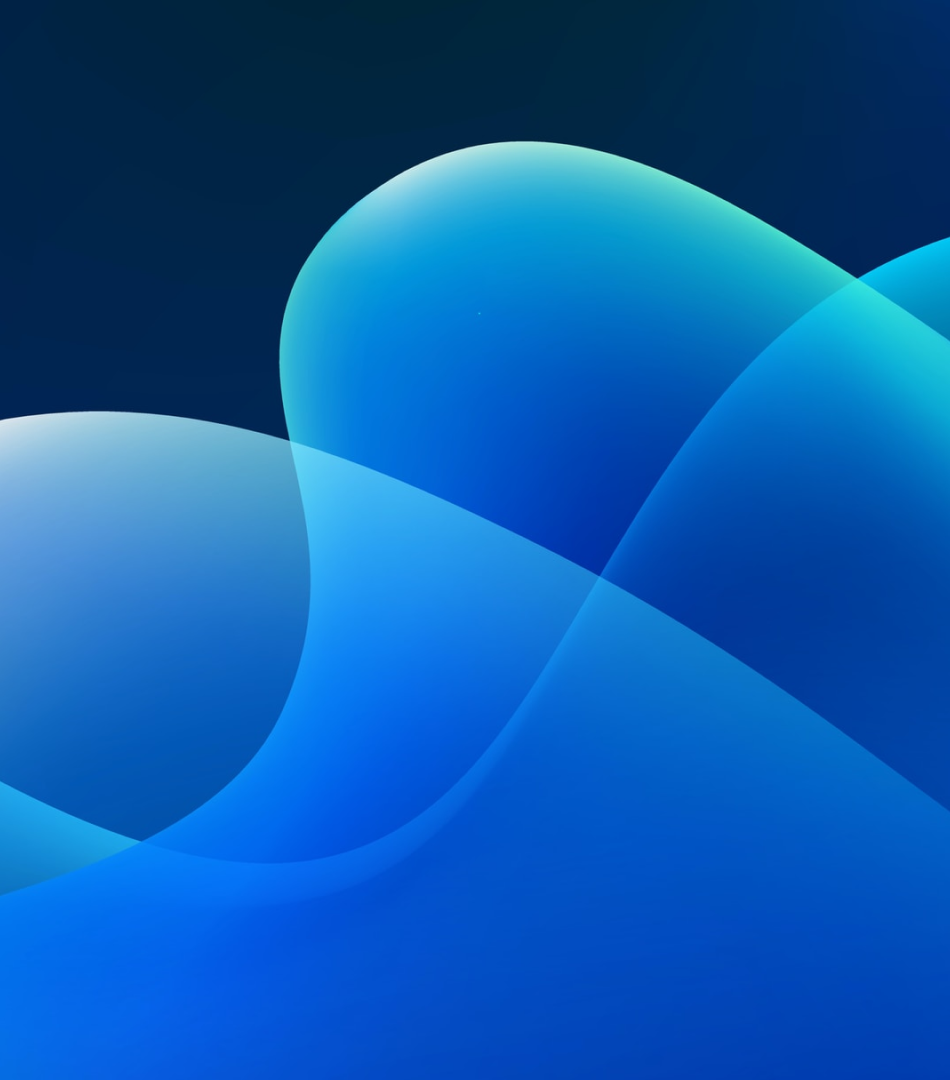
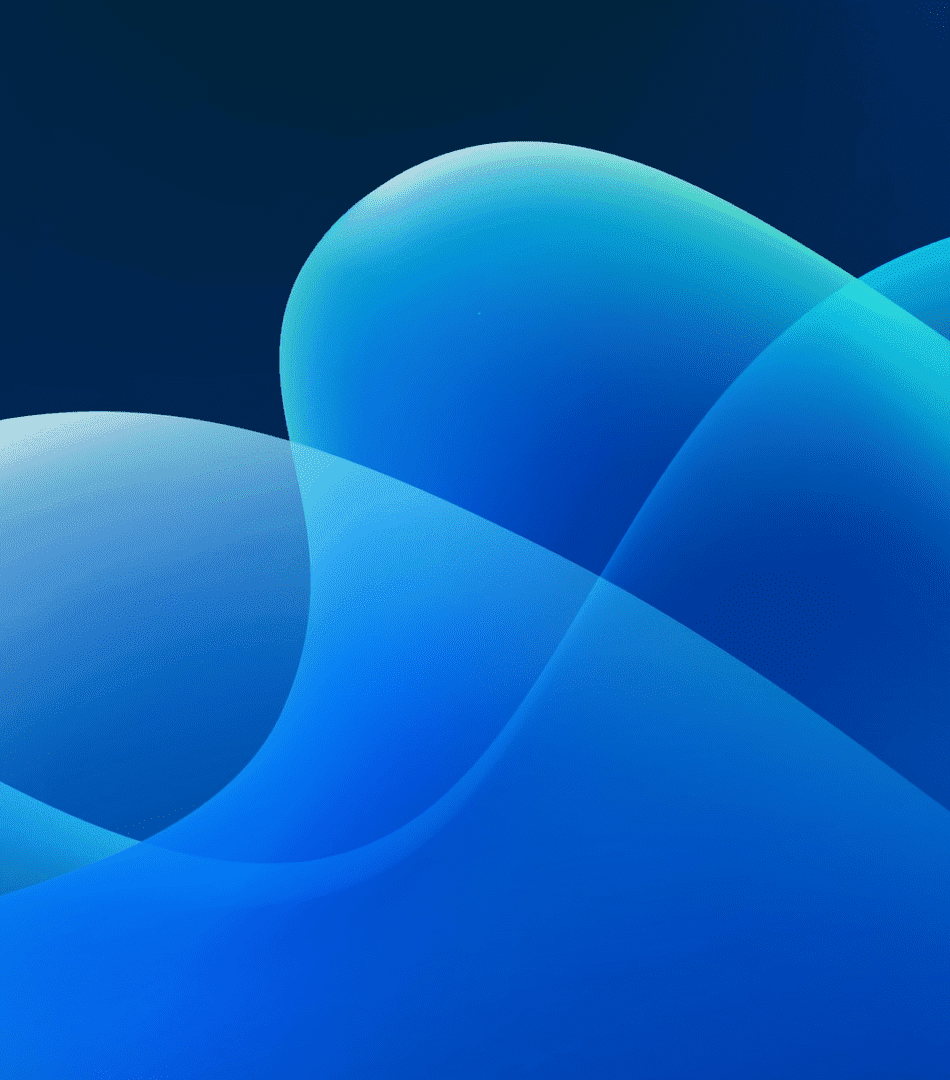
added changes to changelog, optimized images

diff --git a/DTCD-AuthPanel/src/components/AuthPanel.vue b/DTCD-AuthPanel/src/components/AuthPanel.vue
@@ -153,7 +153,7 @@ export default {
 <style lang="scss"scoped>
 
 .AuthPanel {
-  $xs: 0;
+  $xs: 360px;
   $sm: 576px;
   $md: 768px;
   $lg: 992px;
@@ -229,6 +229,14 @@ export default {
           display: block;
           transform: translate(-50%, 50%);
         }
+
+        @media (max-width: $sm) {
+          transform: translate(-50%, 30%);
+        }
+
+        @media (max-width: $xs) {
+          transform: translate(-50%, 0%);
+        }
       }
     }
   }
@@ -238,6 +246,13 @@ export default {
     padding: 32px 20px;
     margin: auto;
     z-index: 1;
+
+    @media (max-width: $md) {
+      margin-top: 26%;
+    }
+    @media (max-width: $xs) {
+      margin-top: 32px;
+    }
   }
 
   .ContentWrapper {

diff --git a/CHANGELOG.md b/CHANGELOG.md
@@ -11,7 +11,9 @@ and this project adheres to [Semantic Versioning](https://semver.org/spec/v2.0.0
 
 - inited panel
 - import images (png, jpg) into html
+- html layout 
+- css styles
 
 ### Removed
 
-- insertion of css-variables.
+- insertion of css-variables
